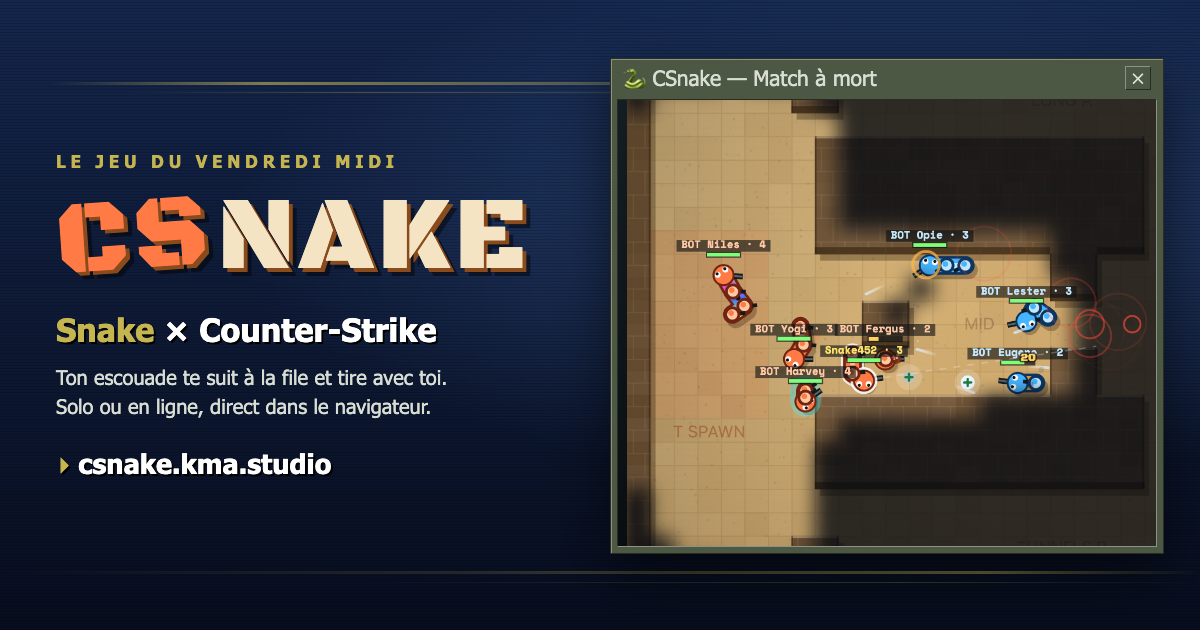
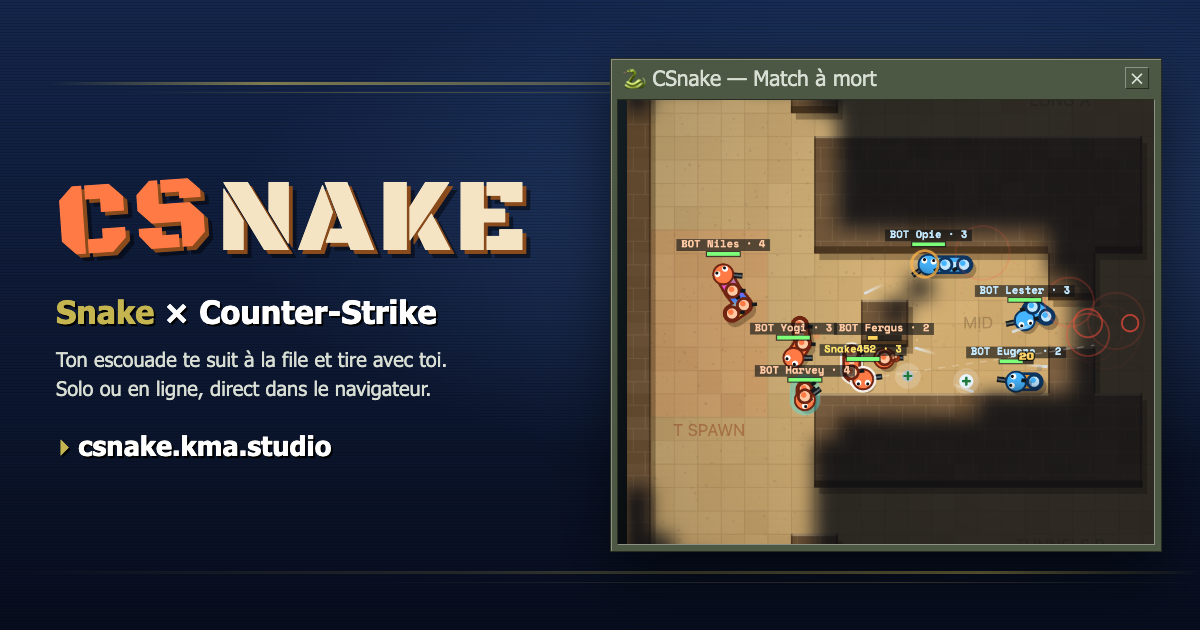
Retrait de la mention vendredi midi du site

diff --git a/public/index.html b/public/index.html
@@ -115,7 +115,7 @@
           <h1 class="logo"><span>CS</span>NAKE</h1>
         </nav>
         <div class="menu-card vgui">
-          <div class="vgui-title">🐍 CSnake<small>un nouveau jeu chaque vendredi midi</small></div>
+          <div class="vgui-title">🐍 CSnake<small>Snake × Counter-Strike</small></div>
           <div class="vgui-body">
           <p class="tagline">Ton escouade te suit en file. Plus elle est longue, plus tu cognes fort… et plus tu es une cible.</p>
 
@@ -187,7 +187,7 @@
 
           <p id="menuError" class="error hidden"></p>
 
-          <p class="credit">Un jeu codé par <a href="https://kma.studio" target="_blank" rel="noopener">KMA Studio</a> · un nouveau jeu chaque vendredi midi · <button id="shareBtn" class="link" type="button">Partager</button></p>
+          <p class="credit">Un jeu codé par <a href="https://kma.studio" target="_blank" rel="noopener">KMA Studio</a> · <button id="shareBtn" class="link" type="button">Partager</button></p>
 
           <details class="help">
             <summary>Comment on joue ?</summary>
